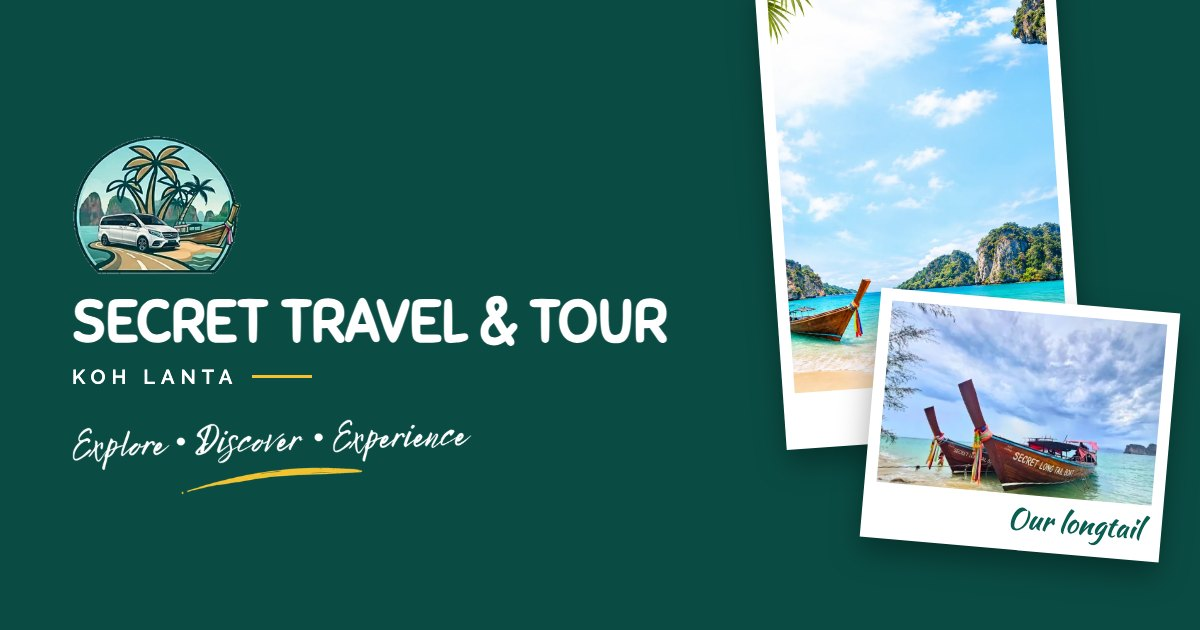
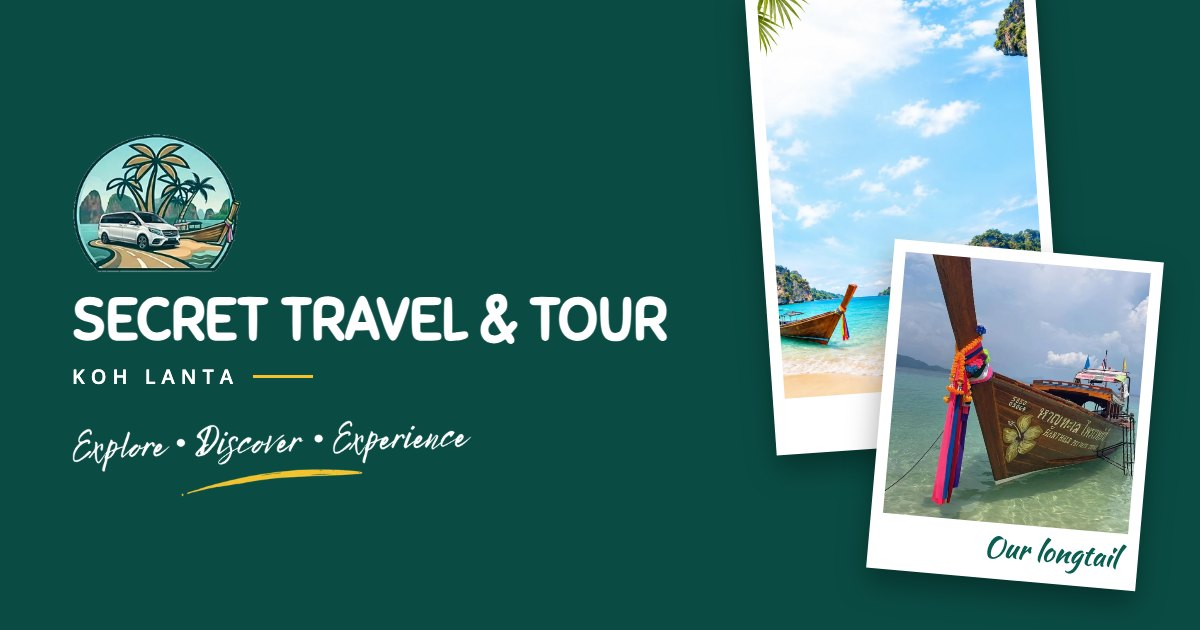
feat(secret): vraie photo du longtail, ancienne photo Klook retirée
- Nouvelle photo du bateau (fournie par Jérémy) en photo principale et
  pour l'excursion 4 Islands.
- longtail-boat.webp (photo d'annonce Klook au filigrane recadré) supprimée.
- Image d'aperçu de partage refaite avec la nouvelle photo, ?v=2 pour
  forcer les réseaux à la recharger.

diff --git a/src/css/secret.css b/src/css/secret.css
@@ -140,7 +140,7 @@ h1 em { font-style: normal; color: var(--green-ink); }
   font-weight: 700; color: var(--bg); text-decoration: none; border-bottom: 2px solid var(--bg);
 }
 .facts { margin-top: 12px; font-size: 14px; color: var(--ink-soft); max-width: 44ch; }
-.hero-photo { width: calc(100% + 40px); max-width: none; height: 260px; margin: 26px -20px 0; object-fit: cover; }
+.hero-photo { width: calc(100% + 40px); max-width: none; height: 300px; margin: 26px -20px 0; object-fit: cover; object-position: 50% 52%; }
 
 /* Boutons */
 .btn {
@@ -330,7 +330,7 @@ h1 em { font-style: normal; color: var(--green-ink); }
   .hero { display: grid; grid-template-columns: 1fr 1fr; gap: 56px; align-items: center; padding: 20px 0 56px; }
   h1 { font-size: 60px; }
   .facts { font-size: 15px; }
-  .hero-photo { width: 100%; height: 460px; margin: 0; border-radius: 2px; }
+  .hero-photo { width: 100%; height: 560px; margin: 0; border-radius: 2px; object-position: 50% 40%; }
   .band { padding: 10px 0 56px; }
   .ask-sec { display: grid; grid-template-columns: 1fr 460px; gap: 56px; align-items: start; padding: 64px 0 20px; }
   .ask { margin-top: 0; padding: 22px 22px; }
